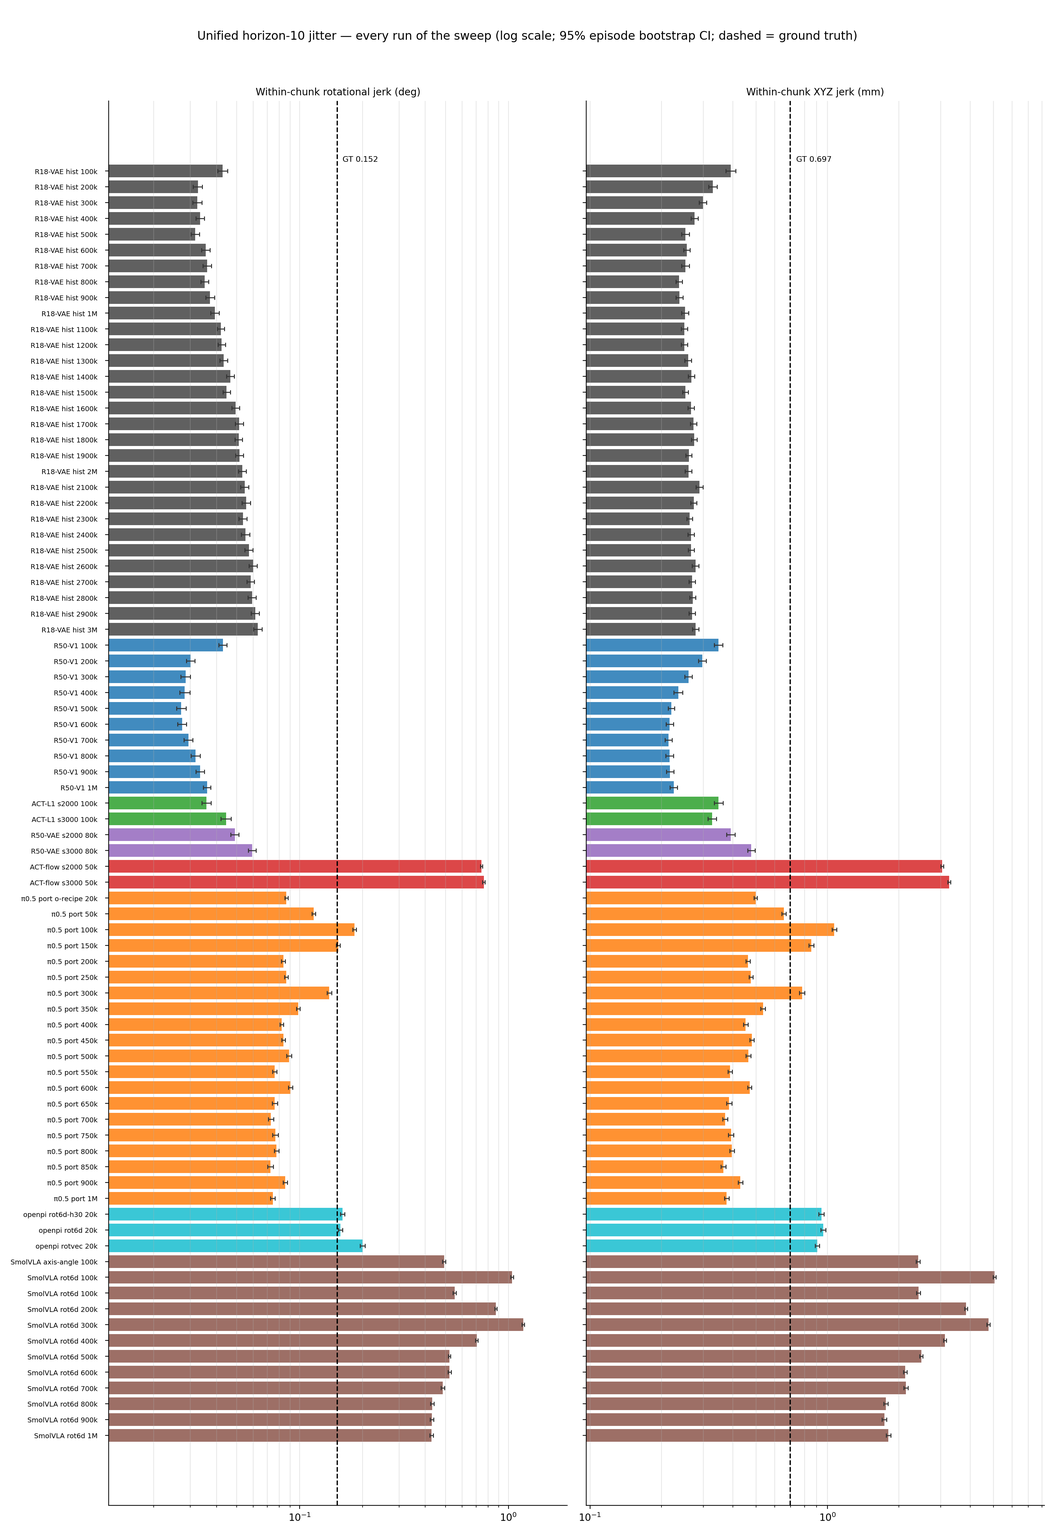
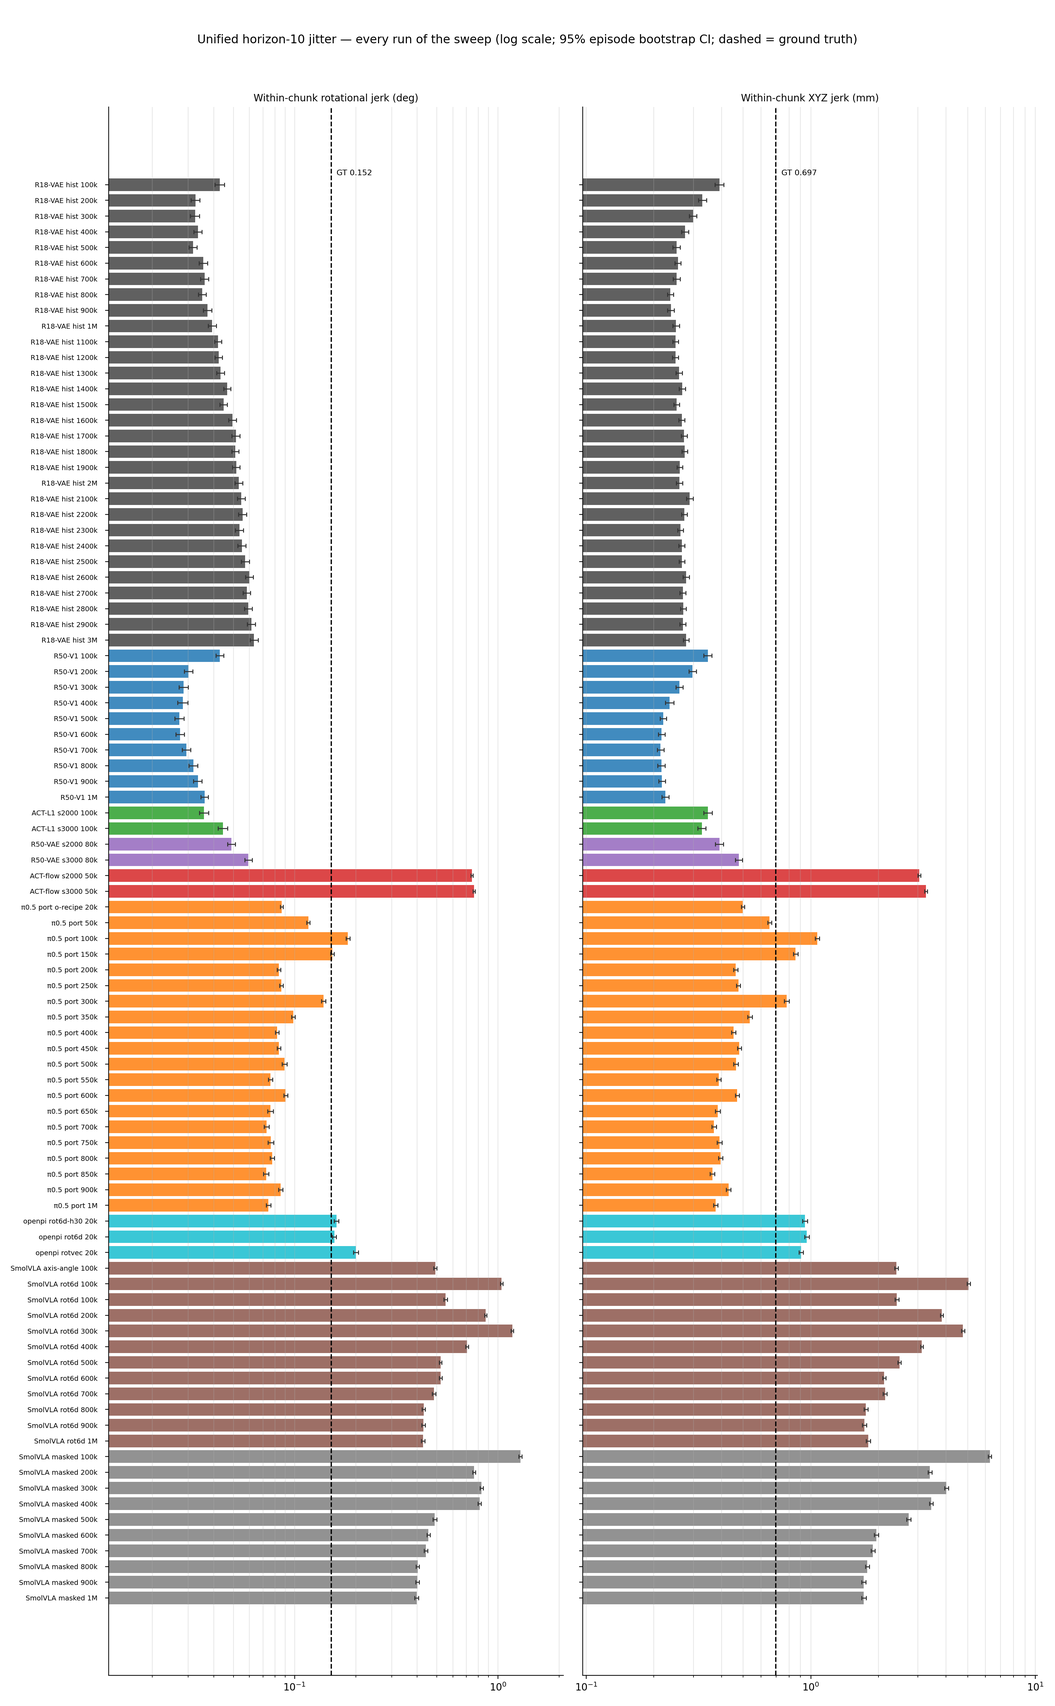
§9.2.10 padding A/B complete: masked ties full-width at 1M (10+10 rows, both protocols)
- kiwi masked-subspace 1M arm: train 14:00 @1M (padded-dim loss exactly 0),
  60/60 evals; h10 tree now 91 runs, h30 tree 88
- verdict: endpoint tie at every budget both horizons; masking only ~7-9%
  smoother jerk at convergence; strawberry padding pathology does not
  reproduce here; full-width stays the default
- plot_unified_h10: smolmask family + 5th budget/jitter-budget curve;
  plot_unified_h30 masked line + rep bar (pre-wired); figures regenerated

diff --git a/examples/umi_relative_ee/act_flow_ablation/plot_unified_h10.py b/examples/umi_relative_ee/act_flow_ablation/plot_unified_h10.py
@@ -49,6 +49,7 @@ COLORS = {
     "openpi": "#17becf",
     "smol": "#8c564b",
     "smol1m": "#e377c2",
+    "smolmask": "#7f7f7f",
 }
 
 # Bar-chart representatives: (run, label, family). One row per surviving
@@ -73,6 +74,7 @@ REPRESENTATIVES = [
     ("smolvla_rot6d_seed1000_100000steps", "SmolVLA rot6d 100k", "smol"),
     ("smolvla_rot6d_seed1000_1000000steps", "SmolVLA rot6d 1M (full-width)", "smol1m"),
     ("smolvla_axis_angle_seed1000_100000steps", "SmolVLA axis-angle 100k", "smol"),
+    ("smolvla_masked_seed1000_1000000steps", "SmolVLA masked 1M (§9.2.10 B)", "smolmask"),
 ]
 
 PANELS = [
@@ -100,6 +102,7 @@ FAMILY_PREFIXES = [
     ("pi05_port_", "port", "π0.5 port"),
     ("smolvla_rot6d_", "smol", "SmolVLA rot6d"),
     ("smolvla_axis_angle_", "smol", "SmolVLA axis-angle"),
+    ("smolvla_masked_", "smolmask", "SmolVLA masked"),
 ]
 FAMILY_ORDER = [fam for _, fam, _ in FAMILY_PREFIXES]
 
@@ -181,6 +184,10 @@ def fig_budget(rows: dict[str, dict]) -> None:
         (int(r["step"]), r) for run, r in rows.items()
         if re.fullmatch(r"smolvla_rot6d_seed1000_\d{7}steps", run)
     )
+    smolmask = sorted(
+        (int(r["step"]), r) for run, r in rows.items()
+        if re.fullmatch(r"smolvla_masked_seed1000_\d{7}steps", run)
+    )
     fig, axes = plt.subplots(1, 2, figsize=(13, 5))
     fig.suptitle(
         "Unified horizon-10 budget curves — accuracy@0.1 and XYZ endpoint vs training steps",
@@ -196,6 +203,7 @@ def fig_budget(rows: dict[str, dict]) -> None:
             (r50, COLORS["r50v1"], "ACT R50-V1 (fresh 1M run)", "s"),
             (port, COLORS["port"], "π0.5 port (curve, 19 ckpts)", "^"),
             (smol1m, COLORS["smol1m"], "SmolVLA rot6d 1M full-width (10 ckpts)", "D"),
+            (smolmask, COLORS["smolmask"], "SmolVLA rot6d 1M masked (10 ckpts)", "v"),
         ):
             if not series:
                 continue
@@ -240,7 +248,7 @@ def fig_budget(rows: dict[str, dict]) -> None:
     fig.tight_layout(rect=(0, 0, 1, 0.94))
     out = os.path.join(FIG_DIR, "unified_h10_budget.png")
     fig.savefig(out, dpi=200)
-    print(f"wrote {out} ({len(hist)} hist + {len(r50)} R50-V1 + {len(port)} port + {len(smol1m)} smol-1M points)")
+    print(f"wrote {out} ({len(hist)} hist + {len(r50)} R50-V1 + {len(port)} port + {len(smol1m)} smol-1M + {len(smolmask)} masked points)")
 
 
 def fig_jitter(rows: dict[str, dict]) -> None:
@@ -324,6 +332,10 @@ def fig_jitter_budget(rows: dict[str, dict]) -> None:
         (int(r["step"]), r) for run, r in rows.items()
         if re.fullmatch(r"smolvla_rot6d_seed1000_\d{7}steps", run)
     )
+    smolmask = sorted(
+        (int(r["step"]), r) for run, r in rows.items()
+        if re.fullmatch(r"smolvla_masked_seed1000_\d{7}steps", run)
+    )
     ref = next(iter(rows.values()))
     gt_rot = float(ref["gt_rot_jerk_deg"])
     gt_xyz = float(ref["gt_xyz_jerk_m"]) * 1000
@@ -344,6 +356,7 @@ def fig_jitter_budget(rows: dict[str, dict]) -> None:
             (r50, COLORS["r50v1"], "ACT R50-V1 (fresh 1M run)", "s"),
             (port, COLORS["port"], "π0.5 port (curve, 19 ckpts)", "^"),
             (smol1m, COLORS["smol1m"], "SmolVLA rot6d 1M full-width (10 ckpts)", "D"),
+            (smolmask, COLORS["smolmask"], "SmolVLA rot6d 1M masked (10 ckpts)", "v"),
         ):
             if not series:
                 continue
@@ -389,7 +402,7 @@ def fig_jitter_budget(rows: dict[str, dict]) -> None:
     fig.tight_layout(rect=(0, 0, 1, 0.94))
     out = os.path.join(FIG_DIR, "unified_h10_jitter_budget.png")
     fig.savefig(out, dpi=200)
-    print(f"wrote {out} ({len(hist)} hist + {len(r50)} R50-V1 + {len(port)} port + {len(smol1m)} smol-1M points)")
+    print(f"wrote {out} ({len(hist)} hist + {len(r50)} R50-V1 + {len(port)} port + {len(smol1m)} smol-1M + {len(smolmask)} masked points)")
 
 
 def main() -> int:

diff --git a/examples/umi_relative_ee/act_flow_ablation/RESEARCH_REPORT.md b/examples/umi_relative_ee/act_flow_ablation/RESEARCH_REPORT.md
@@ -1,6 +1,6 @@
 # ACT capacity and flow-objective investigation
 
-**Status:** complete — seed-1000 controlled matrix (§9.1–9.2), π0.5 650K/700K flow-VLM reference (§9.2.2), SmolVLA rotation-notation ablation (§9.2.3), and the official-openpi rot6d-vs-rotvec replication (§9.2.4). §9.2.4 includes a horizon-matched correction: at equal 10-step scoring, SmolVLA / π0.5 port / official openpi are all statistically tied at 9–10 mm endpoint — earlier cross-model endpoint spreads were a horizon artifact; the real differentiators are smoothness and sample efficiency. The multi-seed (seed 2000/3000) confirmation was dropped for compute efficiency after two artifact-disk failures stranded the checkpoints (§8, incident 12); a 2026-08-17 salvage audit later found six seed-2000/3000 companion checkpoints alive at partial budgets and evaluated them (§9.2.6) — variant rank order replicates across training seeds — and then scored the fully-intact historical production ACT across its entire 100k–3M budget range on the same metric set (§9.2.7). Conclusions otherwise rest on a single training seed with per-episode bootstrap intervals, supplemented by the well-trained π0.5 references. The π0.5-port 700K→1M continuation completed 2026-08-19 (1M flat at both horizons: 9.00 mm t+10 / 21.75 mm t+30; §9.2.2, §9.2.9, §9.2.11). The horizon-30 openpi arm plus the JAX-vs-PyTorch matched-recipe stack A/B completed on 2026-08-17 (§9.2.5): scoring horizon alone moves the same openpi checkpoint 2.2× in endpoint error; h30 training costs ~15% near-horizon precision versus h10 training at equal budget; JAX-vs-PyTorch at matched recipe shows no accuracy gap but the PyTorch port is ~2× smoother; and the openpi recipe's ~9× sample efficiency transfers into the PyTorch stack. A fresh ACT R50-V1 1M-step run (seed 1000) completed on the host on 2026-08-18 (§9.2.8): its budget curve confirms the capacity conclusion — R50@100k already matches the historical R18@3M plateau and stays ~2 mm / ~2.7 pp acc@0.1 ahead through 1M, with no late smoothness penalty; notably, budget improves t+30 endpoint but *degrades* t+10 endpoint on the same checkpoints, so checkpoint selection must match the executed horizon. A unified horizon-10 re-evaluation of every surviving model under one protocol with the full metric set (endpoint pose, per-component L1 / per-dim MSE, accuracy@0.5/0.1 as co-primary metrics; §9.2.9) was launched 2026-08-18 — it re-scores, never retrains, and its metric definitions are normative for the report; its host rows landed the same day (at matched t+10, the ACT R50/L1 family, SmolVLA, and the 3B flow-VLMs statistically tie at 9–11 mm endpoint / acc@0.1 0.92–0.93, the historical R18 sits above the pack at 12–13 mm even at 30× budget, and matched ACT-flow remains worst on every metric); the kiwi π0.5-port rows and the SmolVLA rot6d 1M full-width curve have since landed (§9.2.10).
+**Status:** complete — seed-1000 controlled matrix (§9.1–9.2), π0.5 650K/700K flow-VLM reference (§9.2.2), SmolVLA rotation-notation ablation (§9.2.3), and the official-openpi rot6d-vs-rotvec replication (§9.2.4). §9.2.4 includes a horizon-matched correction: at equal 10-step scoring, SmolVLA / π0.5 port / official openpi are all statistically tied at 9–10 mm endpoint — earlier cross-model endpoint spreads were a horizon artifact; the real differentiators are smoothness and sample efficiency. The multi-seed (seed 2000/3000) confirmation was dropped for compute efficiency after two artifact-disk failures stranded the checkpoints (§8, incident 12); a 2026-08-17 salvage audit later found six seed-2000/3000 companion checkpoints alive at partial budgets and evaluated them (§9.2.6) — variant rank order replicates across training seeds — and then scored the fully-intact historical production ACT across its entire 100k–3M budget range on the same metric set (§9.2.7). Conclusions otherwise rest on a single training seed with per-episode bootstrap intervals, supplemented by the well-trained π0.5 references. The π0.5-port 700K→1M continuation completed 2026-08-19 (1M flat at both horizons: 9.00 mm t+10 / 21.75 mm t+30; §9.2.2, §9.2.9, §9.2.11). The horizon-30 openpi arm plus the JAX-vs-PyTorch matched-recipe stack A/B completed on 2026-08-17 (§9.2.5): scoring horizon alone moves the same openpi checkpoint 2.2× in endpoint error; h30 training costs ~15% near-horizon precision versus h10 training at equal budget; JAX-vs-PyTorch at matched recipe shows no accuracy gap but the PyTorch port is ~2× smoother; and the openpi recipe's ~9× sample efficiency transfers into the PyTorch stack. A fresh ACT R50-V1 1M-step run (seed 1000) completed on the host on 2026-08-18 (§9.2.8): its budget curve confirms the capacity conclusion — R50@100k already matches the historical R18@3M plateau and stays ~2 mm / ~2.7 pp acc@0.1 ahead through 1M, with no late smoothness penalty; notably, budget improves t+30 endpoint but *degrades* t+10 endpoint on the same checkpoints, so checkpoint selection must match the executed horizon. A unified horizon-10 re-evaluation of every surviving model under one protocol with the full metric set (endpoint pose, per-component L1 / per-dim MSE, accuracy@0.5/0.1 as co-primary metrics; §9.2.9) was launched 2026-08-18 — it re-scores, never retrains, and its metric definitions are normative for the report; its host rows landed the same day (at matched t+10, the ACT R50/L1 family, SmolVLA, and the 3B flow-VLMs statistically tie at 9–11 mm endpoint / acc@0.1 0.92–0.93, the historical R18 sits above the pack at 12–13 mm even at 30× budget, and matched ACT-flow remains worst on every metric); the kiwi π0.5-port rows and the SmolVLA rot6d 1M full-width curve have since landed (§9.2.10); the §9.2.10 padding-mode A/B closed 2026-08-20 — masked-subspace ties full-width on endpoint at every budget, with only a small (7–9%) late-budget smoothness edge, so the strawberry-dataset padding pathology does not reproduce on this task.
 **Started:** 2026-08-11  
 **Branch:** `research/umi-act-flowmatching-ablation-20260811`  
 **Source baseline:** `3feb3f3e`  
@@ -1687,10 +1687,11 @@ families — superseded by their 100k+ checkpoints. Outputs live under
 plus a cross-schema compiler; drivers: `eval_unified_h10_sweep.sh` (host),
 `kiwi_eval_unified_h10.sh` (kiwi, K-phase).
 
-**Status: all 81 rows complete (2026-08-19) — the π0.5-port 1M final landed
+**Status: all 91 rows complete (2026-08-20) — the π0.5-port 1M final landed
 with K1** (9.00 [8.43, 9.58] mm, flat vs 700K — no overfitting through the
-full schedule)**, and the SmolVLA rot6d 1M full-width curve (§9.2.10) joined
-the same day.** The SmolVLA rows were front-run on
+full schedule)**, the SmolVLA rot6d 1M full-width curve (§9.2.10) joined
+2026-08-19, and the kiwi masked-subspace 1M curve (10 rows, §9.2.10
+Option B) joined 2026-08-20.** The SmolVLA rows were front-run on
 2026-08-18: the two kiwi-trained checkpoints were copied (weights only) to
 the host artifact tree and evaluated on the then-idle host GPU with
 identical flags (`eval_smolvla_unified_h10_host.sh`) rather than waiting
@@ -1910,9 +1911,12 @@ every other model: 10 checkpoints × 3 inference seeds × both protocols
 deterministic-free flow sampling at seeds 1000/2000/3000 averaged within
 episode, 95% episode bootstrap.
 
-**Status: Option A (host full-width) complete 2026-08-19 — training
-20:14:56 @1M, 60/60 evals, 0 failures. Option B (kiwi masked) training,
-ETA ≈ 2026-08-20 13:00 + chained 60-eval pass; the A/B verdict lands then.**
+**Status: both arms complete. Option A (host full-width) 2026-08-19 —
+training 20:14:56 @1M, 60/60 evals, 0 failures. Option B (kiwi masked)
+2026-08-20 — training 14:00:14 @1M (28h46m, final flow loss 0.0421 on real
+dims with exactly 0.0000 on padded dims — the mask does what it claims),
+60/60 evals, 0 failures. A/B verdict below: endpoint-tie at every budget;
+masking buys only a small late-budget smoothness edge.**
 
 Unified horizon-10 rows (§9.2.9 protocol):
 
@@ -1940,7 +1944,7 @@ Native-h30 milestones (full 10-row table in §9.2.11):
 | 700k | 9.27 | 26.27 | 0.931 | 0.724 | 0.485 | 0.717 |
 | 1M | 9.06 | 26.26 | 0.933 | 0.729 | 0.428 | 0.656 |
 
-Read-outs (Option A; the padding A/B verdict lands with Option B):
+Read-outs (Option A):
 
 1. **Replication check: fresh-100k does NOT match notation-100k at t+10.**
    10.51 [9.95, 11.06] vs 9.08 [8.62, 9.57] mm — disjoint intervals, ~1.4 mm
@@ -1977,9 +1981,66 @@ Read-outs (Option A; the padding A/B verdict lands with Option B):
    behaves like the port's, not like matched-ACT-flow's (§9.2.9 read-out 4).
 
 The budget figures (`figures/unified_h10_budget.png`,
-`figures/unified_h30_budget.png`, `*_jitter_budget.png`) carry the
-full-width curve; the masked arm joins as the fifth line when its evals
-land.
+`figures/unified_h30_budget.png`, `*_jitter_budget.png`) carry both
+curves — full-width as the fourth line, masked as the fifth.
+
+Option B (masked-subspace) unified horizon-10 rows (§9.2.9 protocol):
+
+| Run | step | XYZ end (mm) | Rot end (deg) | XYZ L1/dim (mm) | XYZ MSE/dim (µm²) | Rotvec L1/dim (deg) | Rotvec MSE/dim (deg²) | acc@0.5 | acc@0.1 | Rot jerk (deg) |
+| --- | ---: | ---: | ---: | ---: | ---: | ---: | ---: | ---: | ---: | ---: |
+| smolvla_masked_seed1000_0100000steps | 100000 | 10.71 [10.15, 11.26] | 1.75 [1.67, 1.83] | 3.40 | 22.8 | 0.545 | 0.58 | 0.992 | 0.909 [0.903, 0.914] | 1.289 |
+| smolvla_masked_seed1000_0200000steps | 200000 | 10.43 [9.94, 10.92] | 1.70 [1.62, 1.78] | 3.59 | 22.3 | 0.578 | 0.59 | 0.992 | 0.911 [0.906, 0.916] | 0.762 |
+| smolvla_masked_seed1000_0300000steps | 300000 | 9.38 [8.91, 9.87] | 1.69 [1.60, 1.77] | 2.68 | 15.0 | 0.494 | 0.50 | 0.993 | 0.930 [0.925, 0.934] | 0.831 |
+| smolvla_masked_seed1000_0400000steps | 400000 | 9.05 [8.55, 9.54] | 1.71 [1.63, 1.80] | 2.43 | 13.4 | 0.533 | 0.55 | 0.993 | 0.930 [0.925, 0.935] | 0.813 |
+| smolvla_masked_seed1000_0500000steps | 500000 | 9.21 [8.72, 9.70] | 1.78 [1.70, 1.85] | 2.42 | 13.8 | 0.517 | 0.53 | 0.993 | 0.926 [0.921, 0.930] | 0.489 |
+| smolvla_masked_seed1000_0600000steps | 600000 | 9.55 [9.02, 10.07] | 1.78 [1.70, 1.86] | 2.67 | 15.4 | 0.568 | 0.58 | 0.993 | 0.925 [0.920, 0.930] | 0.455 |
+| smolvla_masked_seed1000_0700000steps | 700000 | 9.18 [8.70, 9.66] | 1.68 [1.60, 1.76] | 2.33 | 13.7 | 0.494 | 0.49 | 0.993 | 0.931 [0.926, 0.936] | 0.443 |
+| smolvla_masked_seed1000_0800000steps | 800000 | 9.28 [8.75, 9.82] | 1.63 [1.56, 1.71] | 2.31 | 14.0 | 0.444 | 0.44 | 0.993 | 0.932 [0.927, 0.936] | 0.403 |
+| smolvla_masked_seed1000_0900000steps | 900000 | 9.17 [8.65, 9.70] | 1.64 [1.56, 1.72] | 2.22 | 13.4 | 0.456 | 0.45 | 0.993 | 0.933 [0.928, 0.938] | 0.401 |
+| smolvla_masked_seed1000_1000000steps | 1000000 | 9.15 [8.63, 9.67] | 1.63 [1.55, 1.71] | 2.22 | 13.3 | 0.441 | 0.44 | 0.993 | 0.933 [0.929, 0.938] | 0.398 |
+
+Option B native-h30 milestones (full 10-row table in §9.2.11):
+
+| step | XYZ end h10 (mm) | XYZ end h30 (mm) | acc@0.1 h10 | acc@0.1 h30 | Rot jerk h10 (deg) | Rot jerk h30 (deg) |
+| ---: | ---: | ---: | ---: | ---: | ---: | ---: |
+| 100k | 10.71 | 29.07 | 0.909 | 0.699 | 1.289 | 1.582 |
+| 300k | 9.38 | 26.45 | 0.930 | 0.723 | 0.831 | 1.093 |
+| 500k | 9.21 | 25.84 | 0.926 | 0.724 | 0.489 | 0.718 |
+| 700k | 9.18 | 26.21 | 0.931 | 0.733 | 0.443 | 0.639 |
+| 1M | 9.15 | 26.15 | 0.933 | 0.736 | 0.398 | 0.595 |
+
+**Padding-mode A/B verdict (matched 1M budget, identical recipe and seed):**
+
+1. **Endpoint: statistical tie at every budget, both horizons.** t+10:
+   masked 10.71→9.15 mm vs full-width 10.51→9.06 — intervals overlap at
+   all ten steps (1M gap 0.09 mm, CIs ±0.5). t+30: 29.07→26.15 vs
+   28.50→26.26, likewise overlapping everywhere (masked's best mid-curve
+   point 25.84 @500k sits inside A's CI). Neither the plateau level
+   (~9.1 mm t+10 / ~26.2 mm t+30, from ~400k) nor the plateau onset
+   moves.
+2. **Near-horizon accuracy: tie.** acc@0.1 t+10 identical to the third
+   decimal at 1M (0.933 both); t+30 masked edges ahead 0.736 vs 0.729 —
+   inside the ±0.011 CI overlap.
+3. **Smoothness: the one real (small) difference — masking is ~7–9%
+   smoother at convergence and reaches the smooth regime earlier.** h10
+   rot-jerk @1M 0.398 vs 0.428°; h30 0.595 vs 0.656°. The h30 gap is
+   visible through the mid-curve: 200k 0.97 vs 1.09°, 300k 1.09 vs A's
+   1.51° spike, 700k 0.64 vs 0.72°. At 100k the picture briefly
+   reverses (masked 1.29/1.58 vs A 1.04/1.39°) — masking does not buy
+   a faster start.
+4. **The strawberry-dataset padding pathology does not reproduce here.**
+   `OPENPI_FULL_WIDTH_FLOW_MATCHING.md` found full-width padding decisive
+   for within-chunk jitter at 1M on strawberry; on this task the two
+   modes are near-interchangeable (endpoint tie, ≤9% jerk gap) — the
+   padding sensitivity is task-dependent, not a universal recipe rule.
+   Consistent with the §9.2.4 note that a 1M-step padding-loss A/B
+   already found full-width ≈ masked; and for §9.2.3's notation question
+   this confirms rot6d SmolVLA's behavior is padding-robust.
+5. **Practical default unchanged.** With endpoint tied and the smoothness
+   edge small, `openpi_full_width` (the library default, Option A) stays
+   the recommended recipe; `masked_subspace` is a safe drop-in where the
+   padded-dim loss term is undesirable (e.g. exact-loss accounting), at
+   no measured endpoint cost.
 
 ### 9.2.11 Unified native-h30 (full-chunk) evaluation of every chunk-30 model
 
@@ -2000,11 +2061,10 @@ companions, and — new — the π0.5-port h30 curve (`pi05_port_<STEP>_h30_v2`
 runs; host front-run 50k–900k minus 650k/700k via
 `eval_pi05_curve_h30_host.sh`, kiwi K2 owns 650K/700K/1M).
 
-**Status: 77 of 87 rows complete + the optional openpi h30 row (78 total;
-2026-08-19); the full π0.5-port h30 curve (19 points, 50k–1M), the SmolVLA
-notation h30 pair, the SmolVLA 1M full-width h30 curve (10 points,
-§9.2.10), and the openpi h30-trained arm are in.** Pending: only the kiwi
-masked-subspace 1M h30 curve. Every
+**Status: all rows complete (88 total; 2026-08-20); the full π0.5-port h30
+curve (19 points, 50k–1M), the SmolVLA notation h30 pair, the SmolVLA 1M
+full-width h30 curve (10 points, §9.2.10), the openpi h30-trained arm, and
+the kiwi masked-subspace 1M h30 curve (10 points, §9.2.10) are in.** Every
 admitted row passed the compiler's assertions — canonical bounds,
 full-chunk scoring, 500 queries/100 episodes, identical acc@τ scales
 (within-tree), and identical GT jerk (0.158° / 0.67 mm — the full-chunk
@@ -2090,13 +2150,24 @@ GT invariants, slightly different from the t+10 values as expected).
 | smolvla_rot6d_1m_seed1000_0900000steps | 900000 | 26.43 [24.71, 28.18] | 4.42 [4.18, 4.67] | 7.18 | 148.5 | 1.251 | 3.62 | 0.976 | 0.728 [0.718, 0.737] | 0.649 |
 | smolvla_rot6d_1m_seed1000_1000000steps | 1000000 | 26.26 [24.54, 28.02] | 4.41 [4.17, 4.66] | 7.15 | 146.7 | 1.247 | 3.62 | 0.976 | 0.729 [0.719, 0.738] | 0.656 |
 | smolvla_rot6d_seed1000_100000steps | 100000 | 27.29 [25.72, 28.87] | 4.68 [4.45, 4.92] | 7.35 | 150.6 | 1.296 | 3.95 | 0.974 | 0.714 [0.705, 0.723] | 0.924 |
+| smolvla_masked_1m_seed1000_0100000steps | 100000 | 29.07 [27.36, 30.74] | 4.70 [4.45, 4.96] | 8.22 | 178.1 | 1.314 | 3.93 | 0.971 | 0.699 [0.690, 0.708] | 1.582 |
+| smolvla_masked_1m_seed1000_0200000steps | 200000 | 26.44 [24.88, 28.00] | 4.44 [4.19, 4.71] | 7.84 | 149.1 | 1.297 | 3.73 | 0.977 | 0.717 [0.709, 0.726] | 0.966 |
+| smolvla_masked_1m_seed1000_0300000steps | 300000 | 26.45 [24.70, 28.21] | 4.52 [4.27, 4.79] | 7.36 | 145.2 | 1.273 | 3.70 | 0.976 | 0.723 [0.714, 0.732] | 1.093 |
+| smolvla_masked_1m_seed1000_0400000steps | 400000 | 26.22 [24.57, 27.91] | 4.43 [4.17, 4.71] | 7.15 | 141.2 | 1.277 | 3.73 | 0.976 | 0.728 [0.718, 0.738] | 1.026 |
+| smolvla_masked_1m_seed1000_0500000steps | 500000 | 25.84 [24.14, 27.61] | 4.51 [4.24, 4.80] | 7.15 | 142.7 | 1.291 | 3.77 | 0.975 | 0.724 [0.714, 0.734] | 0.718 |
+| smolvla_masked_1m_seed1000_0600000steps | 600000 | 26.27 [24.43, 28.11] | 4.44 [4.16, 4.73] | 7.37 | 150.2 | 1.287 | 3.73 | 0.975 | 0.726 [0.716, 0.736] | 0.653 |
+| smolvla_masked_1m_seed1000_0700000steps | 700000 | 26.21 [24.41, 28.03] | 4.37 [4.09, 4.67] | 7.17 | 148.8 | 1.243 | 3.60 | 0.975 | 0.733 [0.723, 0.744] | 0.639 |
+| smolvla_masked_1m_seed1000_0800000steps | 800000 | 26.74 [24.81, 28.74] | 4.40 [4.11, 4.69] | 7.28 | 156.9 | 1.222 | 3.57 | 0.974 | 0.732 [0.722, 0.743] | 0.586 |
+| smolvla_masked_1m_seed1000_0900000steps | 900000 | 26.30 [24.45, 28.22] | 4.36 [4.08, 4.65] | 7.15 | 150.9 | 1.220 | 3.53 | 0.975 | 0.734 [0.723, 0.745] | 0.596 |
+| smolvla_masked_1m_seed1000_1000000steps | 1000000 | 26.15 [24.31, 28.05] | 4.35 [4.07, 4.64] | 7.13 | 149.3 | 1.213 | 3.54 | 0.975 | 0.736 [0.725, 0.746] | 0.595 |
 
 ![Unified native-h30 metrics across chunk-30 models](figures/unified_h30_metrics.png)
 
 ![Unified native-h30 budget curves — historical R18-VAE (30 ckpts),
 fresh R50-V1 (10 ckpts), the π0.5-port h30 curve (19 points, plateau
-≈21.7–21.9 mm from 350k through 1M), and the SmolVLA 1M full-width curve
-(10 points, 28.5 → 26.3 mm); the masked curve lands last](figures/unified_h30_budget.png)
+≈21.7–21.9 mm from 350k through 1M), the SmolVLA 1M full-width curve
+(10 points, 28.5 → 26.3 mm), and the SmolVLA masked 1M curve
+(10 points, 29.1 → 26.2 mm; ties full-width, §9.2.10)](figures/unified_h30_budget.png)
 
 ![Unified native-h30 jitter — every run of the sweep, log scale, dashed =
 ground truth (0.158° / 0.67 mm)](figures/unified_h30_jitter.png)
@@ -3005,7 +3076,7 @@ MPLCONFIGDIR=/tmp/lerobot-matplotlib uv run --with matplotlib python \
 outputs `results/unified_h10_run_summary.csv` (per-run means + 95% CIs, all
 co-primary metrics) and `figures/unified_h10_{metrics,budget,jitter,jitter_budget}.png`; the K-phase
 and the SmolVLA full-width chain landed 2026-08-19 (81 runs incl. the §9.2.10
-curve) — rerun both only after the masked chain completes §9.2.10.
+curve); the masked chain added its 10 rows on 2026-08-20 (91 runs total).
 
 The native-h30 full-chunk evaluation (§9.2.11) shares the mechanics with the
 horizon inverted (no `--eval_horizon` → full 30-step scoring over the same
@@ -3027,8 +3098,8 @@ MPLCONFIGDIR=/tmp/lerobot-matplotlib uv run --with matplotlib python \
 outputs `results/unified_h30_run_summary.csv` and
 `figures/unified_h30_{metrics,budget,jitter,jitter_budget}.png`; the port
 curve, K2/K3 rows, the SmolVLA full-width curve, and the optional openpi
-h30 row landed 2026-08-19 (78 runs) — rerun both only after the masked
-curve lands.
+h30 row landed 2026-08-19 (78 runs); the masked curve added its 10 rows
+on 2026-08-20 (88 runs total).
 
 The v2 pass records the authoritative evaluated checkpoint step from each
 report filename (early-stopped companions sit in `100000steps` directories
